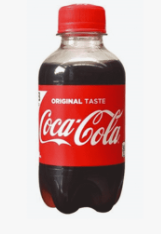
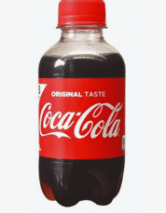
feat: update Techno Fair references, adjust product descriptions, and clean up unused assets

Changed region(s): [[0.2174, 0.0, 0.8075, 0.9859]]

diff --git a/app/(customer)/menu/page.tsx b/app/(customer)/menu/page.tsx
@@ -33,7 +33,7 @@ export default function MenuPage() {
   return (
     <div className="px-4 pt-6 pb-4">
       <p className="text-xs font-bold tracking-[0.2em] text-brand">
-        TECHNO FAIR · THURSDAY, OCT 29 · 1:00 PM
+        THURSDAY, OCT 29 · 1:00 PM
       </p>
       <h1 className="font-display mt-1 text-3xl tracking-tight md:text-4xl">
         Menu
@@ -109,6 +109,10 @@ export default function MenuPage() {
         })}
       </ul>
 
+      <p className="pb-2 text-center text-xs text-muted/80">
+        Note: product photos are for reference only and may not match the exact
+        items served.
+      </p>
       <p className="py-5 text-center text-sm text-muted">
         Walk-in? You can also just drop by the booth — no website needed.
       </p>

diff --git a/app/(customer)/page.tsx b/app/(customer)/page.tsx
@@ -88,7 +88,7 @@ export default function HomePage() {
         <div className="relative grid items-center gap-8 md:grid-cols-2 md:gap-10">
           <div>
             <p className="text-xs font-bold tracking-[0.2em] text-brand">
-              TECHNO FAIR 2026 · THURSDAY, OCT 29 · 1:00 PM
+              THURSDAY, OCT 29 · 1:00 PM
             </p>
             <h1 className="font-display mt-3 text-4xl leading-[1.05] tracking-tight text-ink sm:text-5xl xl:text-6xl">
               Pre-order.

diff --git a/app/layout.tsx b/app/layout.tsx
@@ -23,7 +23,7 @@ export const metadata: Metadata = {
     template: "%s · Snack & Sip",
   },
   description:
-    "Pre-order your Techno Fair snacks — siomai, siomai rice, and siopao (big, mini, ube, chocolate). Pay with GCash, claim with QR.",
+    "Pre-order your snacks — siomai, siomai rice, and siopao (big, mini, ube, chocolate). Pay with GCash, claim with QR.",
 };
 
 export const viewport: Viewport = {

diff --git a/lib/constants.ts b/lib/constants.ts
@@ -11,7 +11,7 @@ export const GCASH = {
 } as const;
 
 export const FAIR = {
-  name: "Techno Fair",
+  name: "Snack & Sip",
   days: ["Day 1", "Day 2"] as const,
 } as const;
 

diff --git a/public/products/CREDITS.md b/public/products/CREDITS.md
@@ -14,5 +14,5 @@ photo upload) whenever you have them.
 | `small-siopao.jpg` | [Steamed Siopao with sauce.jpg](https://commons.wikimedia.org/wiki/File:Steamed_Siopao_with_sauce.jpg) | CC BY-SA 4.0 |
 | `choco-mini-siopao.jpg` | [6379Photos taken in Poblacion, Baliuag, Bulacan 45.jpg](https://commons.wikimedia.org/wiki/File:6379Photos_taken_in_Poblacion,_Baliuag,_Bulacan_45.jpg) | CC0 |
 | `ube-mini-siopao.jpg` | [Ube Pao (Manila Chinatown).jpg](https://commons.wikimedia.org/wiki/File:Ube_Pao_(Manila_Chinatown).jpg) | CC BY-SA 4.0 |
-| `coke-mini.jpg` | [Coca-Cola 200mL (October 24, 2024).jpg](https://commons.wikimedia.org/wiki/File:Coca-Cola_200mL_(October_24,_2024).jpg) | CC BY-SA 4.0 |
-| `wilkins-330ml.jpg` | [Cilíndrica botella de agua con tapa negra.jpg](https://commons.wikimedia.org/wiki/File:Cil%C3%ADndrica_botella_de_agua_con_tapa_negra.jpg) | CC0 |
+| `coke-mini.png` | User-provided photo | User-owned |
+| `water.png` | User-provided photo | User-owned |
